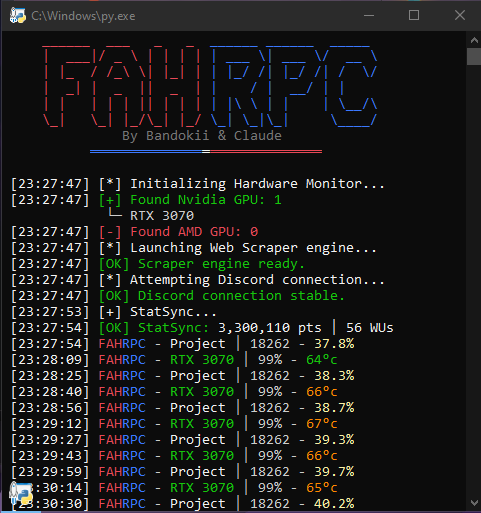
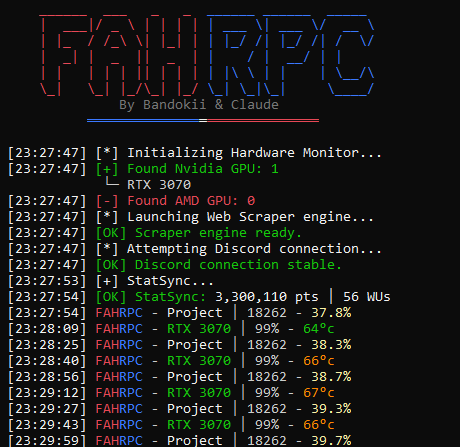
Switch to Virtual environment. Switch from winget to uv. Added UNINSTALL.bat !! see README.txt !!

diff --git a/main.py b/main.py
@@ -2,7 +2,7 @@
 FAHRPC - Folding@Home Discord Rich Presence
 -------------------------------------------
 Original Author: Bandokii
-AI Collaborator: Claude Haiku 4.5
+AI Collaborator: VSCode Copilot
 Refactored for Efficiency & Multi-GPU Support
 
 Main entry point for modular FAHRPC with improved error handling,
@@ -120,7 +120,7 @@ def print_header(config: dict) -> None:
         rf"     {RED}\_|   \_| |_/\_| |_/{BLUE} \_| \_|\_|     \____/         ",
     ]
     
-    signature = f"               {GRAY}By Bandokii & Claude{RESET}"
+    signature = f"               {GRAY}By Bandokii & VSCode Copilot{RESET}"
     hz = "═"
     divider = f"           {BLUE}{hz * 14}{WHITE}{hz}{RED}{hz * 14}{RESET}"
     
@@ -188,8 +188,6 @@ async def main_logic() -> None:
             clean_name = dev.adapterName.replace(config['hardware']['amd']['strip_prefix'], "").strip()
             print(f"{hardware_padding}└─ {clean_name}")
 
-    # Intel GPU log output
-    
     # Initialize scraper
     print(f" {get_timestamp()} {COLORS['white']}[*] Launching Web Scraper engine...{COLORS['reset']}")
     scraper = FAHScraper(config)

diff --git a/modules/hardware.py b/modules/hardware.py
@@ -37,7 +37,6 @@ class GPUMonitor:
         self.nvidia_handles = []
         self.nvidia_names = []
         self.amd_devices = []
-        # self.intel_devices = []
         self._detect_hardware()
     
     def _detect_hardware(self) -> None:
@@ -141,11 +140,6 @@ class GPUMonitor:
     def amd_count(self):
         """Number of detected AMD GPUs."""
         return len(self.amd_devices)
-    # Intel GPU support reserved for future implementation
-    # @property
-    # def intel_count(self):
-    #     """Number of detected Intel GPUs."""
-    #     return len(self.intel_devices)
     
     @staticmethod
     def shutdown() -> None:

diff --git a/modules/__init__.py b/modules/__init__.py
@@ -2,7 +2,7 @@
 FAHRPC Modules Package
 """
 
-from .config import load_config, get_config
+from .config import load_config
 from .logger import setup_error_logging
 from .hardware import GPUMonitor
 from .scraper import FAHScraper
@@ -11,7 +11,6 @@ from .tray import TrayIcon, set_console_visibility
 
 __all__ = [
     'load_config',
-    'get_config',
     'setup_error_logging',
     'GPUMonitor',
     'FAHScraper',

diff --git a/modules/config.py b/modules/config.py
@@ -126,12 +126,3 @@ def load_config(config_path: str = "config.json") -> Dict[str, Any]:
         print(f"Error parsing config file: {e}")
         print("Using default configuration.")
         return DEFAULT_CONFIG
-
-def get_config() -> Dict[str, Any]:
-    """
-    Get the global configuration instance.
-    
-    Returns:
-        Configuration dictionary
-    """
-    return load_config()
